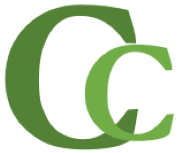
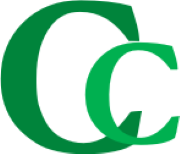
EditIcon
Edited logo icon and tried centering image

diff --git a/banshees.html b/banshees.html
@@ -127,8 +127,8 @@
               <p><span class="firstcharacter">L</span>orem ipsum dolor sit, amet consectetur adipisicing elit. Ratione officia sed, suscipit distinctio, numquam omnis quo fuga ipsam quis inventore voluptatum recusandae culpa, unde doloribus saepe labore alias voluptate expedita? Dicta delectus beatae explicabo odio voluptatibus quas, saepe qui aperiam autem obcaecati, illo et! Incidunt voluptas culpa neque repellat sint, accusamus beatae, cumque autem tempore quisquam quam eligendi harum debitis.</p>
 
               <figure class="my-4">
-                <img src="assets/img/banshee1.jpg" alt="" class="img-fluid">
-                <figcaption>Lorem ipsum dolor sit amet consectetur adipisicing elit. Explicabo, odit? </figcaption>
+                <img src="assets/img/banshee1.jpg" alt="" class="img-fluid" align="center">
+                <figcaption align="center">Lorem ipsum dolor sit amet consectetur adipisicing elit. Explicabo, odit? </figcaption>
               </figure>
               <p>Sunt reprehenderit, hic vel optio odit est dolore, distinctio iure itaque enim pariatur ducimus. Rerum soluta, perspiciatis voluptatum cupiditate praesentium repellendus quas expedita exercitationem tempora aliquam quaerat in eligendi adipisci harum non omnis reprehenderit quidem beatae modi. Ea fugiat enim libero, ipsam dicta explicabo nihil, tempore, nulla repellendus eos necessitatibus eligendi corporis cum? Eaque harum, eligendi itaque numquam aliquam soluta.</p>
               <p>Explicabo perspiciatis, laborum provident voluptates illum in nulla consectetur atque quaerat excepturi quisquam, veniam velit ex pariatur quos consequuntur? Excepturi reiciendis perferendis, cupiditate dolorem eos illum amet. Beatae voluptates nemo esse ratione voluptate, nesciunt fugit magnam veritatis voluptas dignissimos doloribus maiores? Aliquam, dolores natus exercitationem corrupti blanditiis, consequuntur nihil nobis sed voluptatibus maiores sunt, illo provident aliquid laborum. Vitae, ut.</p>
